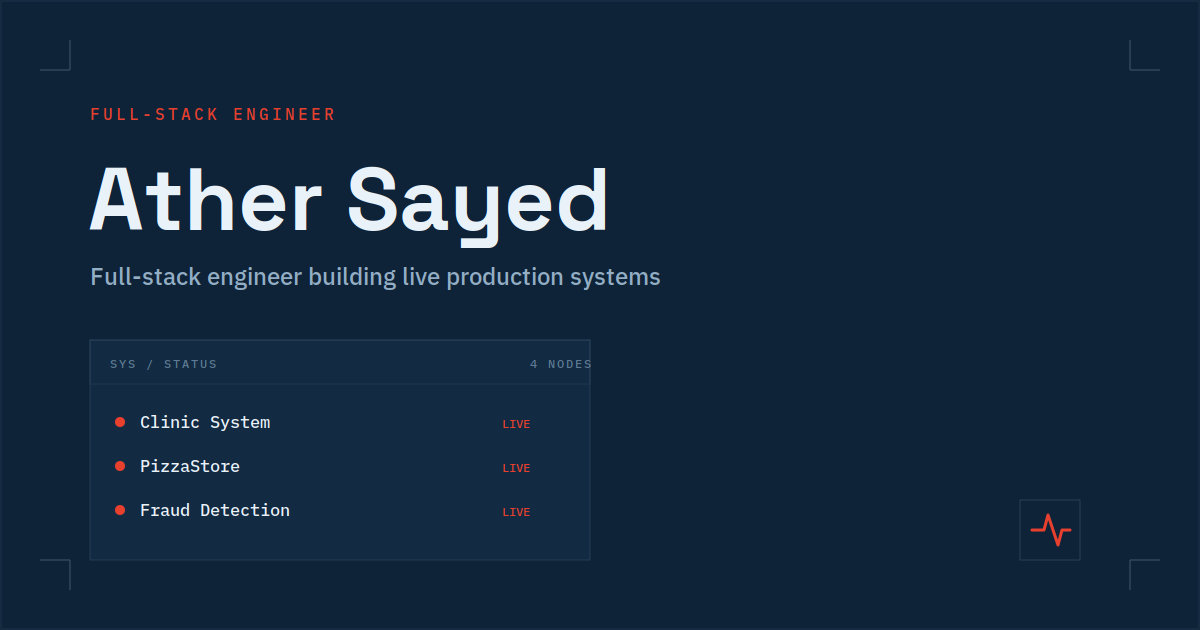
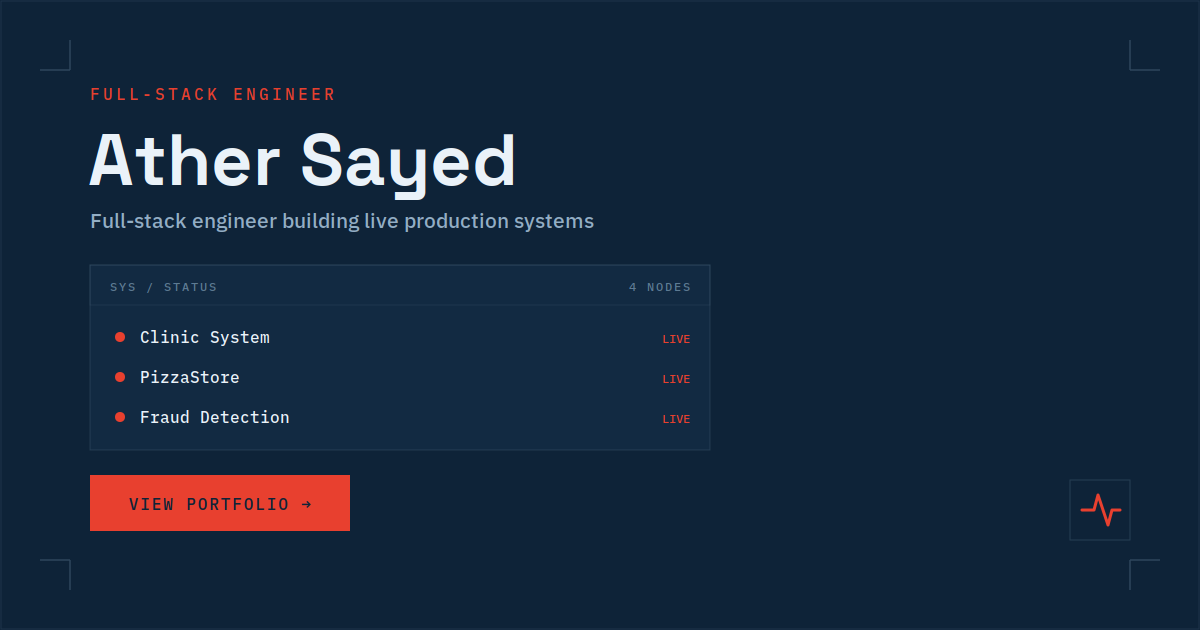
Updated OG Image

diff --git a/index.html b/index.html
@@ -30,6 +30,11 @@
     />
     <meta property="og:image:width" content="1200" />
     <meta property="og:image:height" content="630" />
+    <meta property="og:site_name" content="Ather Sayed — Portfolio" />
+    <meta
+      property="og:image:alt"
+      content="Ather Sayed, Full-Stack Engineer — portfolio homepage showing live project status panel"
+    />
 
     <meta name="twitter:card" content="summary_large_image" />
     <meta name="twitter:title" content="Ather Sayed — Full-Stack Engineer" />
